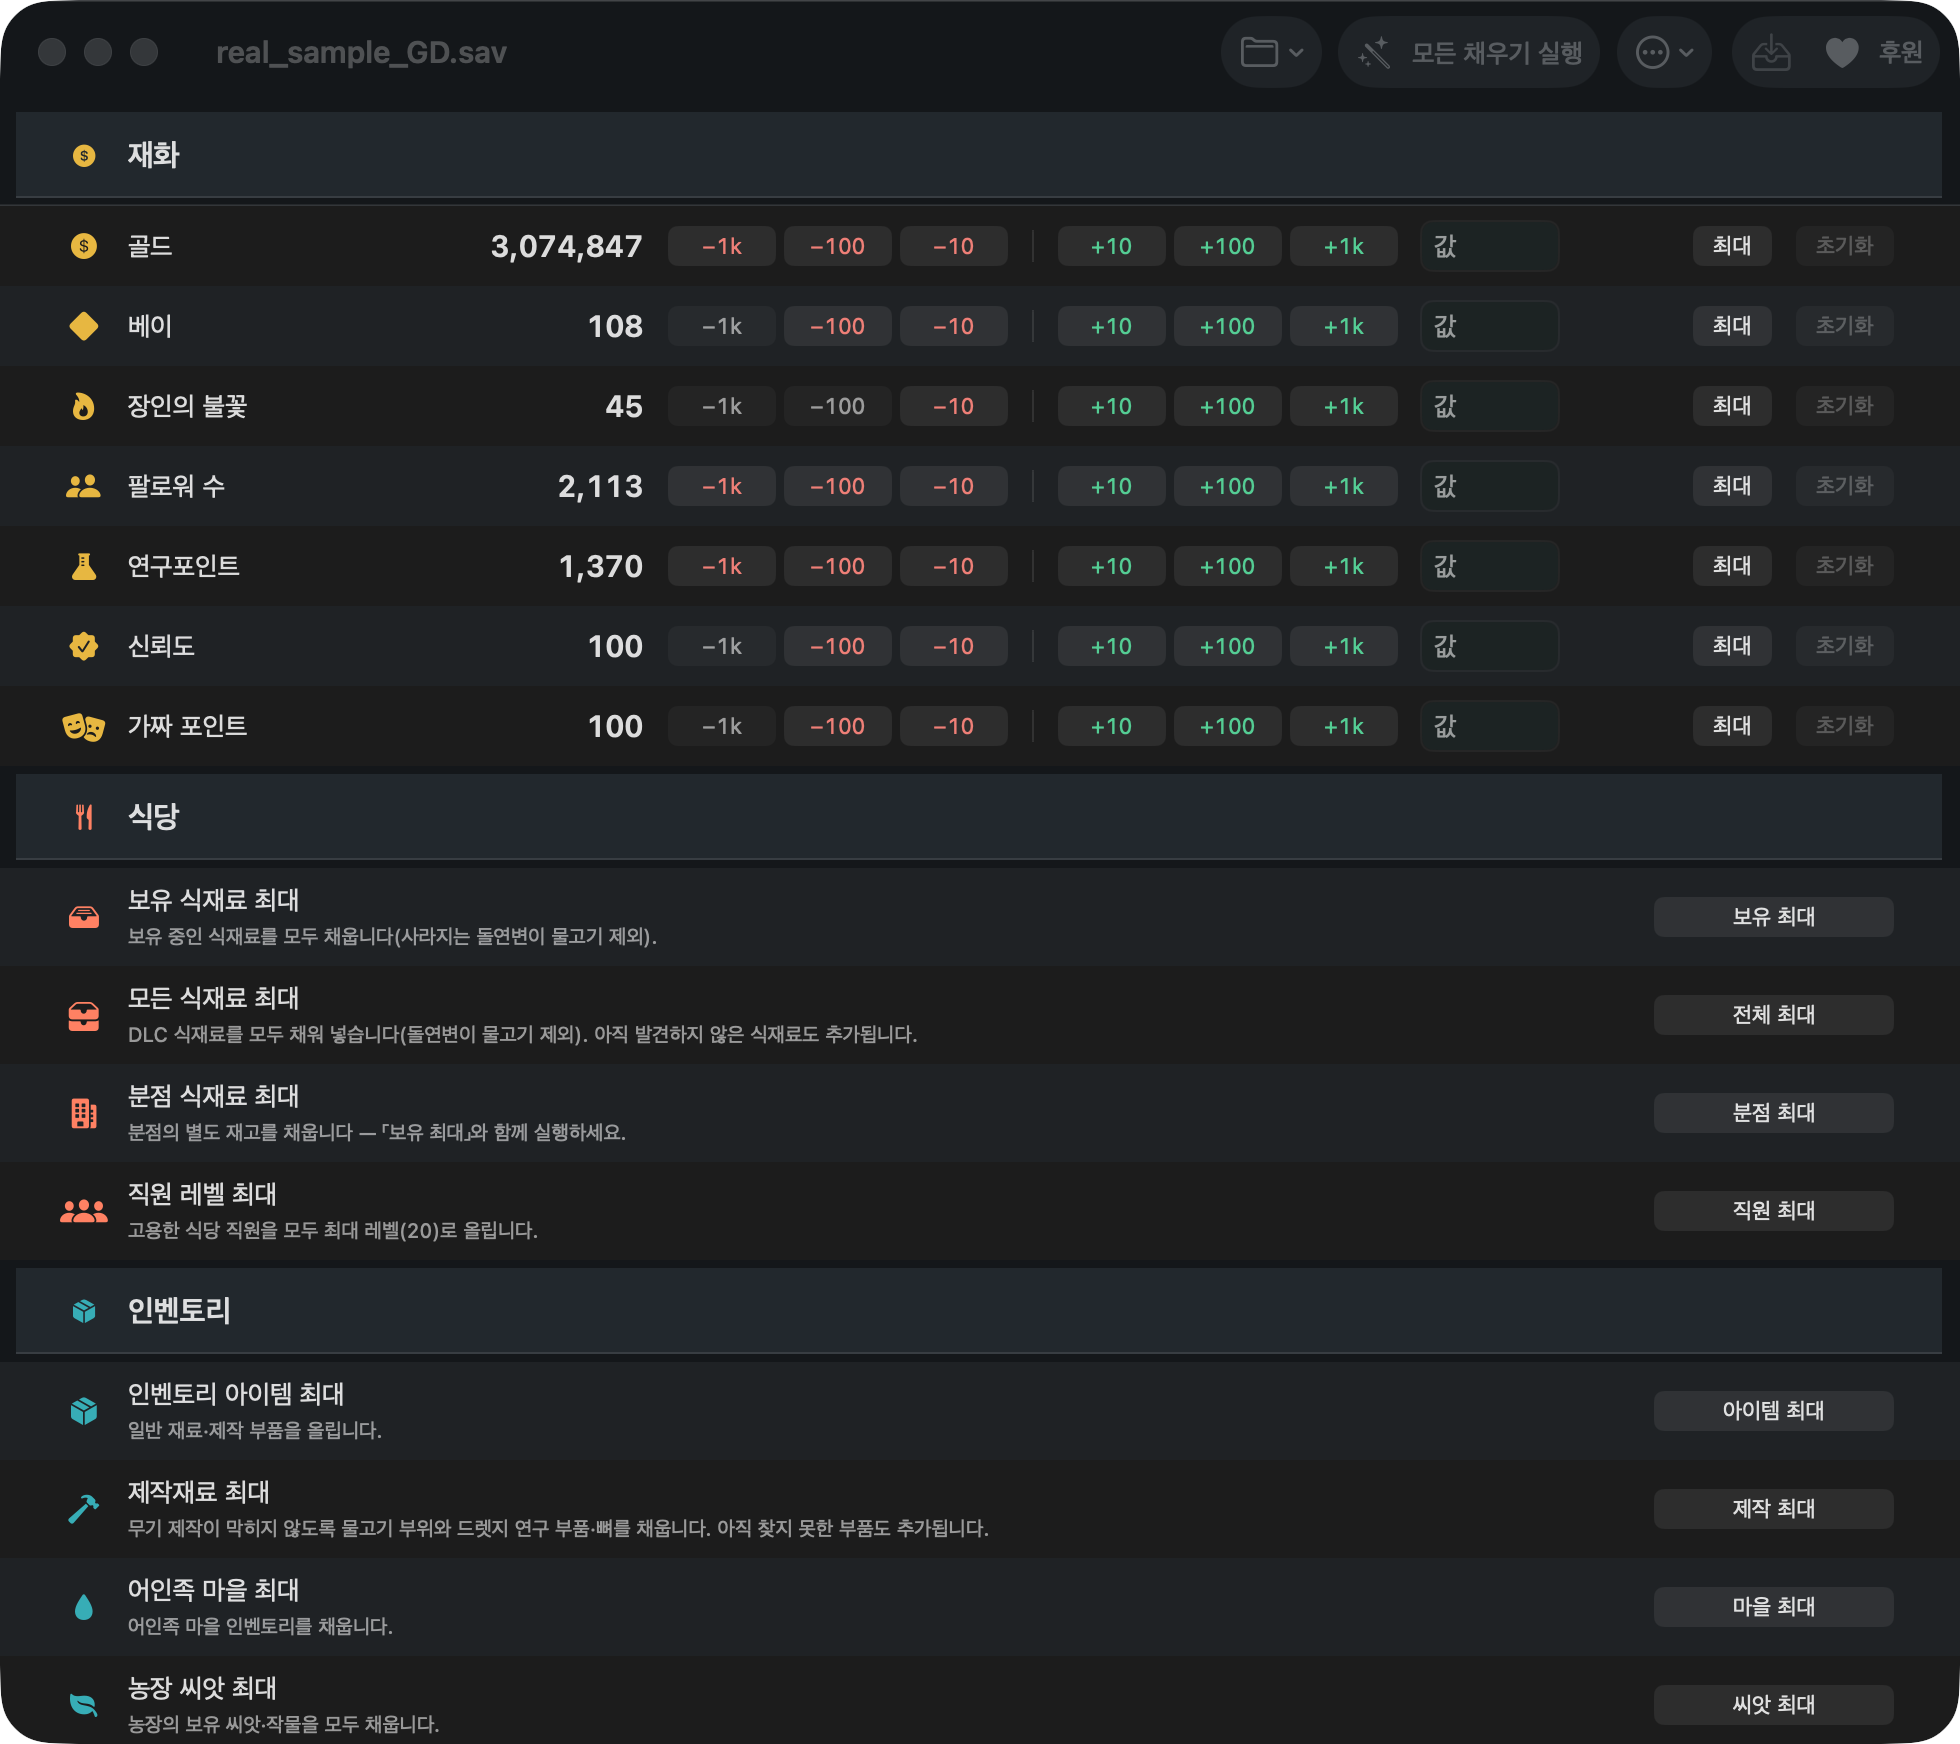
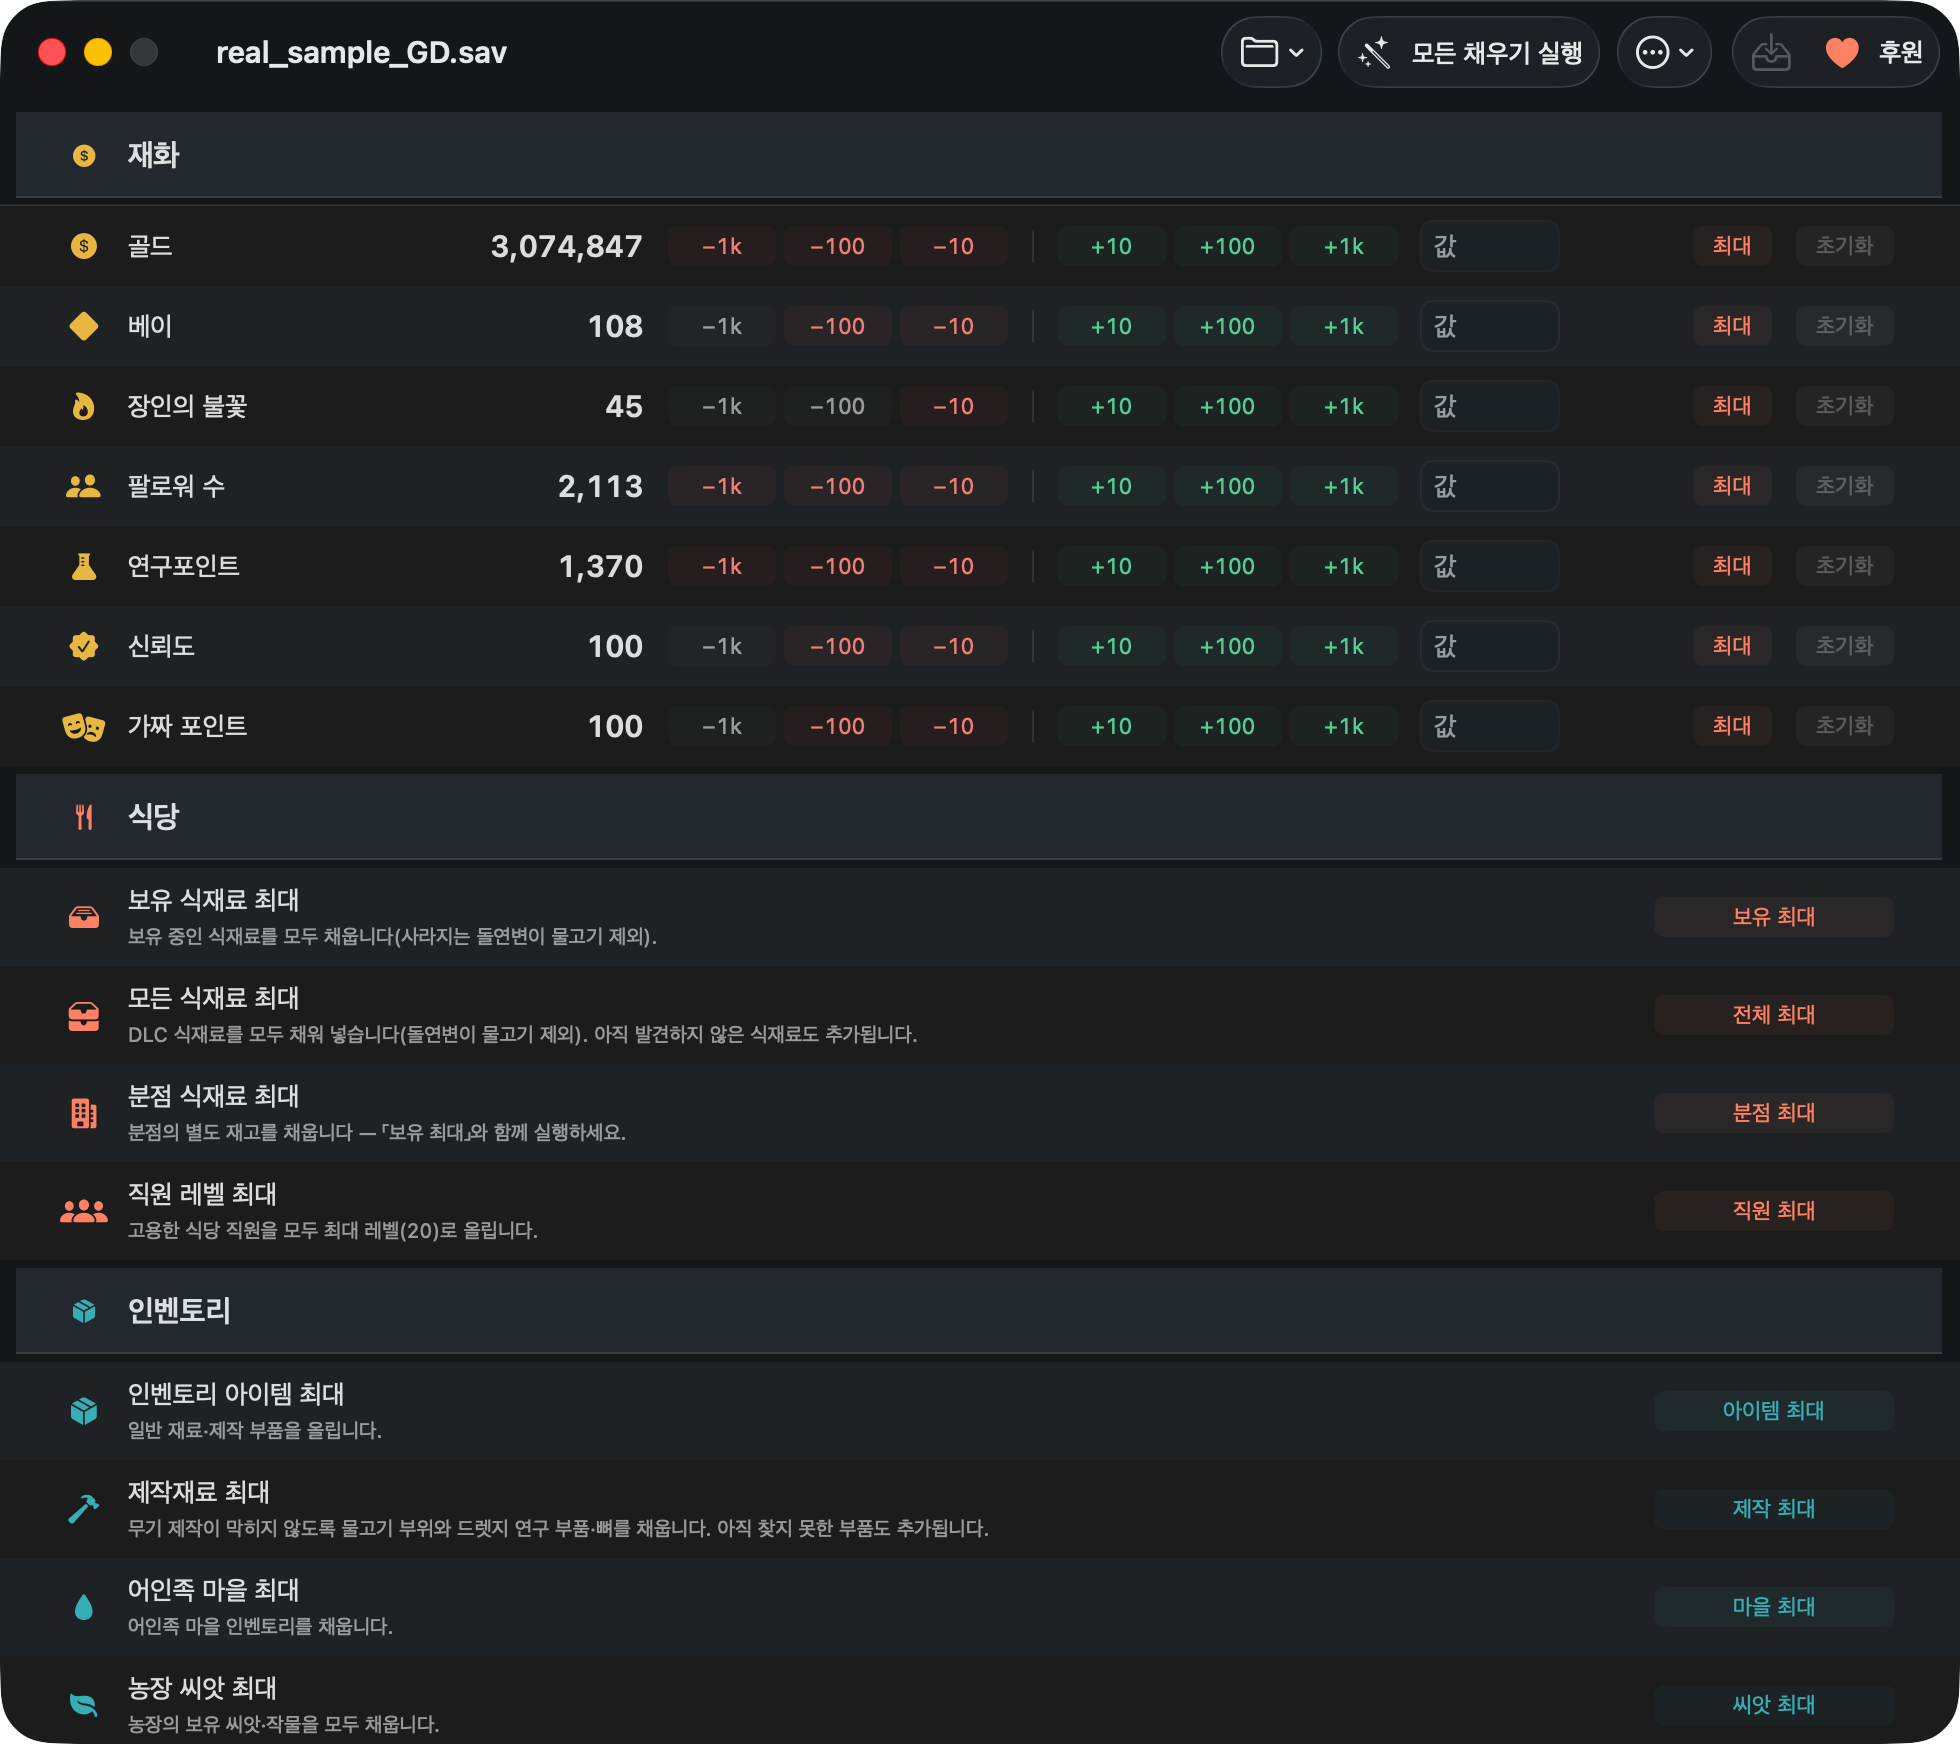
fix: the toolbar Support button was never actually coral
Found by sampling the screenshot rather than by reading the code. The button
carried `.tint(Theme.Color.coral)`, but `.tint` does nothing to a plain toolbar
button's label — the heart came out #4F4E4A, the ordinary label colour, making
the donation button visually identical to Save and More beside it. The one thing
meant to draw the eye to it wasn't there, and every screenshot in the README and
on the site had been recording that.

Colouring the glyph directly fixes it, verified the same way: the heart now
samples #FF6F4F against a target of #FF7A59. Only the icon is coloured — coral
body text beside black toolbar text looks broken — and this button is never
disabled, so an explicit foreground style can't swallow a dimmed state the way it
did on the currency steppers.

Screenshots re-captured in --active mode now that the machine was free. The
background mode that avoids stealing focus also means macOS draws the window
inactive: grey traffic lights, every accent desaturated. These are the first
captures that show the app the way someone actually sees it.

Also fixes a capture failure that looked flaky and wasn't. The raw-JSON sheet
failed with ScreenCaptureKit -3812 "invalid parameter" on two consecutive runs
while the backups sheet succeeded. It renders the entire decoded save as
formatted text, so at the script's 1.2s settle it was still laying out and the
helper measured a half-built sheet. Sheets now get 3.5s and the same single
[…]

diff --git a/App/Sources/Views/ContentView.swift b/App/Sources/Views/ContentView.swift
@@ -144,11 +144,24 @@ struct ContentView: View {
                         .disabled(!model.isLoaded || !model.hasChanges)
                         .help("Review the changes, then write them to the save")
 
-                    Button("Support", systemImage: "heart.fill") {
+                    // `.tint` does nothing to a plain toolbar button's label — verified by
+                    // sampling the captured screenshot, where the heart came out #4F4E4A, the
+                    // ordinary label colour, indistinguishable from Save and More beside it.
+                    // Colouring the glyph directly is what actually reads as a separate action.
+                    // Only the icon: coral body text next to black toolbar text looks broken,
+                    // and this button is never disabled, so an explicit foreground style can't
+                    // swallow a dimmed state the way it did on the currency steppers.
+                    Button {
                         model.supportPrompt = .launch
+                    } label: {
+                        Label {
+                            Text("Support")
+                        } icon: {
+                            Image(systemName: "heart.fill")
+                                .foregroundStyle(Theme.Color.coral)
+                        }
                     }
                     .labelStyle(.titleAndIcon)
-                    .tint(Theme.Color.coral)
                     .help("DiveSaveEd is free — please consider supporting it")
                 }
             }
